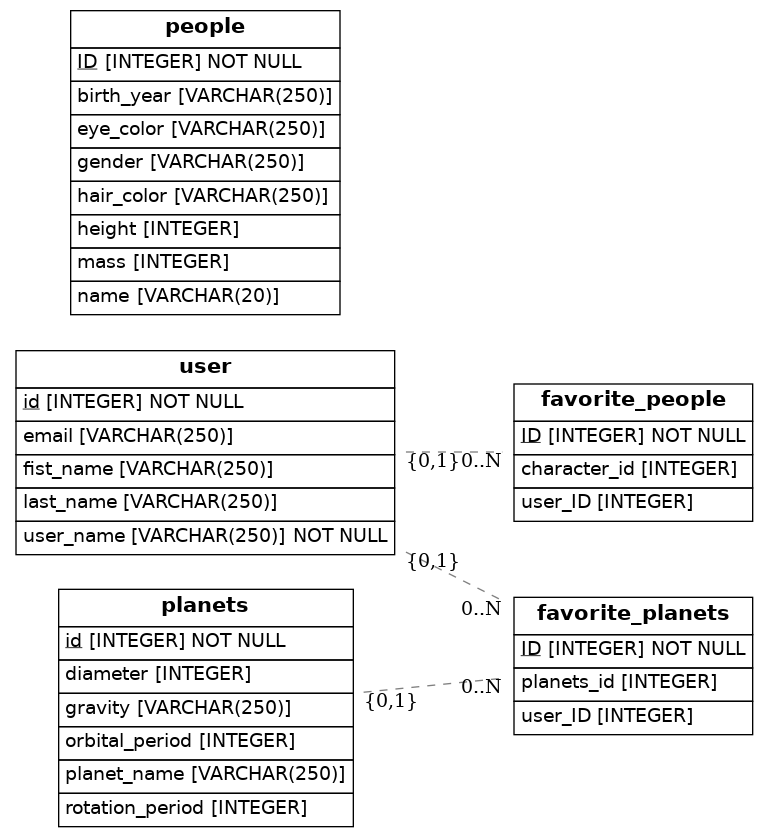
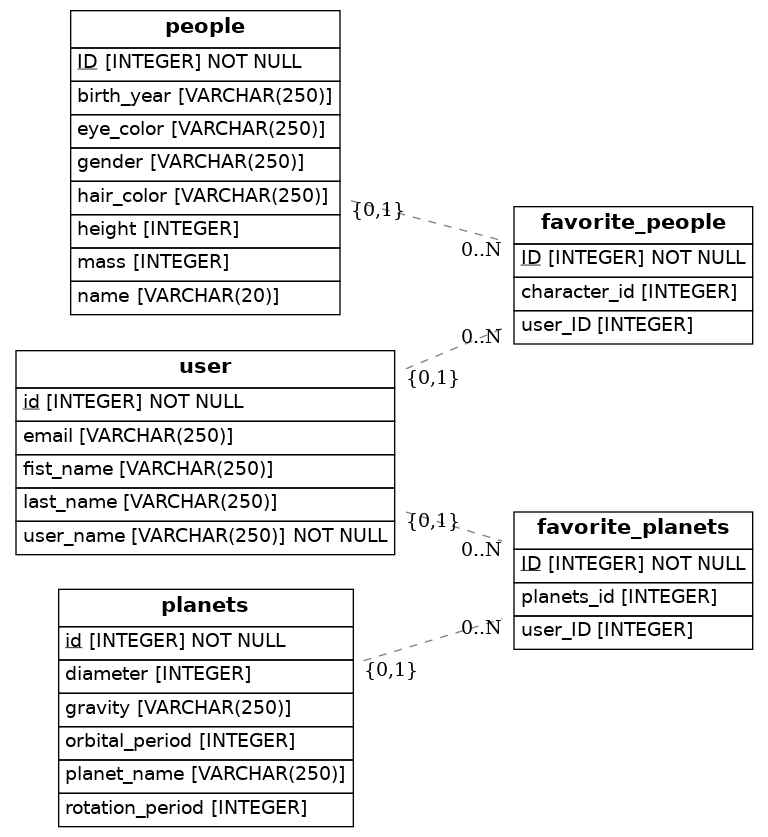
foreign keys añadidas

diff --git a/src/models.py b/src/models.py
@@ -17,6 +17,9 @@ class User(Base):
     last_name = Column(String(250))
     email = Column(String(250))
 
+    def to_dict(self):
+        return {}
+
 
 class Planets(Base):
     __tablename__ = 'planets'
@@ -26,6 +29,9 @@ class Planets(Base):
     rotation_period = Column(Integer)
     gravity = Column(String(250))
     orbital_period = Column(Integer)
+
+    def to_dict(self):
+        return {}
 
 
 class People(Base):
@@ -39,14 +45,20 @@ class People(Base):
     birth_year = Column(String(250))
     gender = Column(String(250))
 
+    def to_dict(self):
+        return {}
+
 
 class FavoritePeople(Base):
     __tablename__ = 'favorite_people'
     ID = Column(Integer, primary_key=True)
     user_ID = Column(Integer, ForeignKey('user.ID'))
     user_relationship = relationship(User)
-    character_id = Column(Integer, ForeignKey('character.ID'))
+    character_id = Column(Integer, ForeignKey('people.ID'))
     character_relationship = relationship(People) 
+
+    def to_dict(self):
+        return {}
 
 
 class FavouritePlanets(Base):
